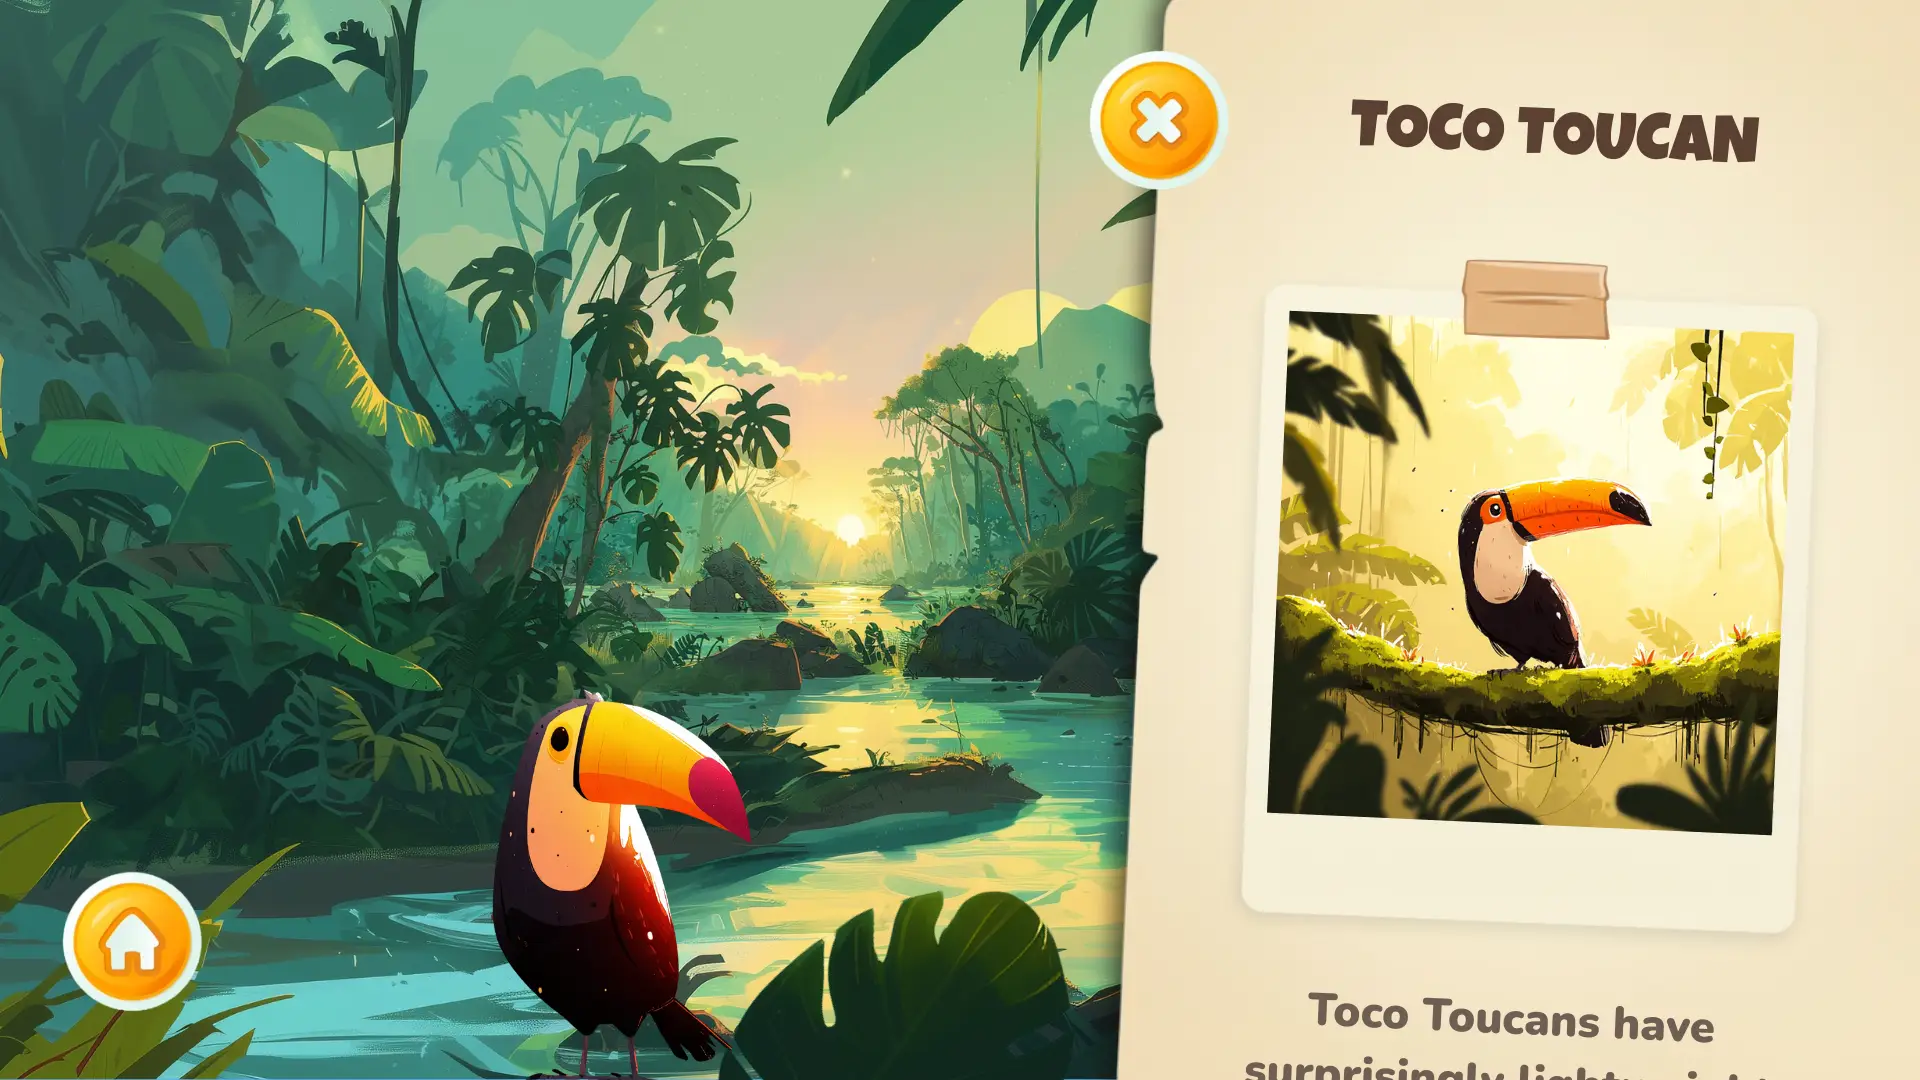
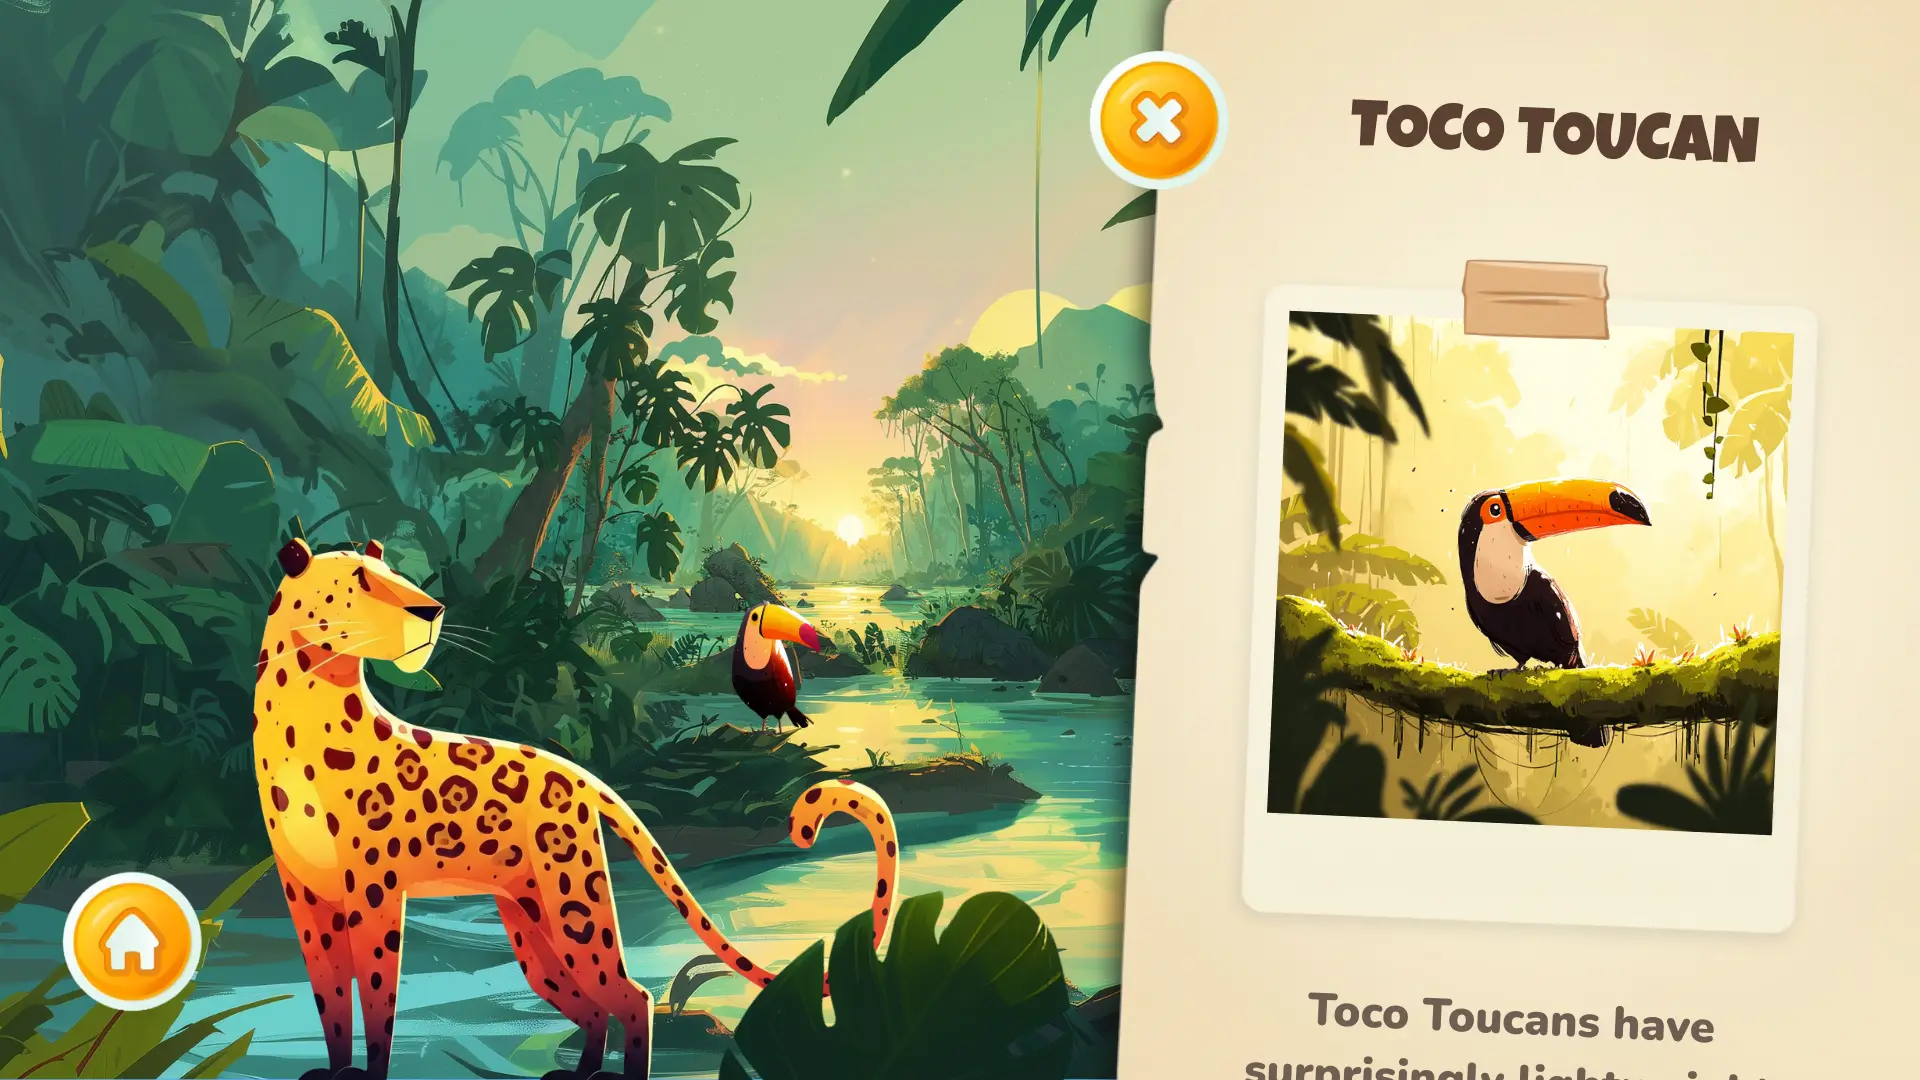
chore: better amazon image

Changed region(s): [[0.125, 0.4889, 0.4688, 1.0], [0.375, 0.55, 0.4375, 0.6722]]

diff --git a/index.html b/index.html
@@ -1567,6 +1567,9 @@
               <img src="images/gallery/thumbs/05.webp"
                 alt="A wildlife educational app screenshot in the Alps featuring a bear and interesting facts about the bear"
                 loading="lazy" />
+              <img src="images/gallery/thumbs/amazon_forest_2.webp"
+                alt="A wildlife educational app screenshot in the Alps featuring a bear and interesting facts about the bear"
+                loading="lazy" />
             </div>
 
             <!--
